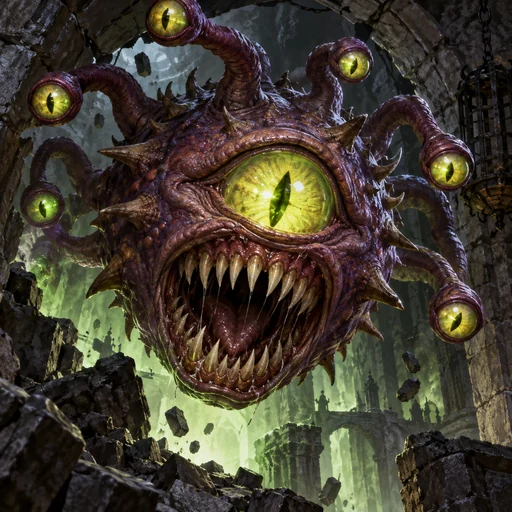
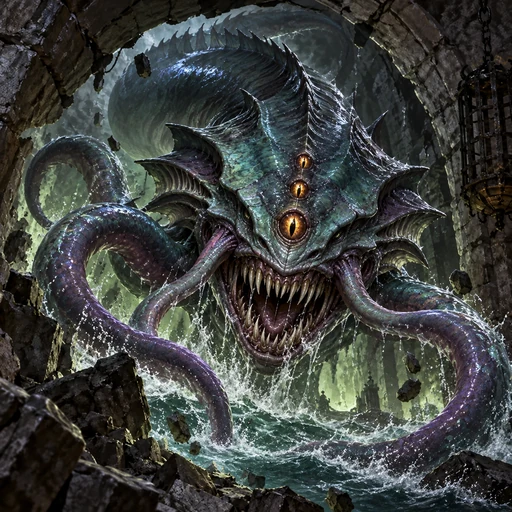
Replace beholder placeholders with aboleths and document art guidance

diff --git a/docs/art/creature-art-guidance.md b/docs/art/creature-art-guidance.md
@@ -1,0 +1,107 @@
+# Choosing creature art for ODM
+
+Use this guide when adding shipped artwork, bestiary entries, world-pack art,
+or generation prompts. It records ODM's conservative publishing practice, not
+a claim that every creature outside the SRD is legally prohibited. Checked
+against Wizards' sources on 2026-10-11.
+
+## Choose and record the source
+
+Prefer a creature with its own stat block in the licensed System Reference
+Document (SRD). ODM's `/rulebook` and `src/lib/rulebook/srd-5.1.json` provide a
+convenient starting point. A passing mention of a name does not establish
+permission to reproduce that creature's full design or lore.
+
+Original creatures, traditional folklore, and separately licensed third-party
+content are also possible. For third-party content, record the exact source,
+license, permitted use, and required attribution. Presence in an installed
+Open5e pack or a user's homebrew collection is not automatic permission to ship
+its art. Rules permission and permission to copy an illustration are separate.
+
+Create original illustrations. Do not copy or trace official pictures, use
+them as image-edit inputs, or request reproduction of a specific published
+design without permission for that artwork. A generic folklore creature does
+not make a publisher's particular illustration free to reuse.
+
+## Subjects to avoid in shipped art without separate clearance
+
+Wizards' SRD 5.1 **OGL edition**, page 1, explicitly lists these creatures or
+names as Product Identity: beholder, gauth, carrion crawler, displacer beast,
+githyanki, githzerai, mind flayer/illithid, umber hulk, yuan-ti, tanar'ri and
+baatezu. This is an OGL designation, not a universal legal classification or
+an extra restriction to paste onto the separate Creative Commons license.
+
+Also avoid WotC-specific depictions of kuo-toa, slaadi, flumphs, neogi, hook
+horrors, grells, intellect devourers and death knights without a documented
+permission basis. These have no individual monster entries in ODM's bundled
+SRD 5.1 rulebook; that absence is a reason to check the source, not proof that
+every independently created fish-person, floating creature or undead knight
+is prohibited. This watch list is not exhaustive.
+
+Apply the same source check to branded characters, settings, locations and
+spell names. Do not assume that an SRD reference to a place licenses its
+setting lore. Use ODM's plain SRD spell names. Wizards' FAQ explains both
+renamed content and exclusions; check the exact SRD version rather than
+treating a combined internet list as definitive.
+
+## Prompt and visual review
+
+Name the intended creature instead of relying on a category alone. For the
+aberration plate, use an aboleth or chuul. Other verified SRD 5.1 subjects
+include owlbear, rust monster, gelatinous cube, mimic, otyugh, bulette, cloaker,
+roper and tarrasque.
+
+Example: "An original aboleth in flooded ruins, an elongated aquatic body and
+four tentacles; no beholder, floating eyeball with eyestalks, or mind flayer;
+do not reproduce a published illustration."
+
+Inspect the finished image at full size and at thumbnail size. Check every
+creature in a composite, including background subjects. Renaming a recognizable
+beholder does not fix its visual design. If generation drifts to an excluded
+subject, replace the anatomy and inspect again before shipping.
+
+Save the subject, source/license reference, prompt, dimensions and file hash
+with the art change. Keep original vote records historical; an edited image
+does not inherit votes cast for its predecessor. The two aboleth replacements
+are recorded in [aboleth-replacements-2026-10-11.json](aboleth-replacements-2026-10-11.json).
+
+## What happens during play
+
+The curated Bestiary is not the DM's only source. `resolveMonster` in
+`src/lib/bestiary/index.ts` also resolves installed content and table authors'
+homebrew. World packs can overlay or extend the genre catalog. In
+`src/lib/dm/encounter-spawn.ts`, an unresolved name with a supplied challenge
+rating (CR) receives generic synthesized stats; without a CR, the request
+returns an unknown-monster error. These are mechanical fallbacks, not source
+or rights checks.
+
+For `MonsterTile` in `src/lib/ui.tsx`, explicitly supplied art wins. Otherwise
+`monsterPlaceholder` in `src/lib/placeholders.ts` chooses, in order:
+
+1. A genre boss plate for CR 11 or above in supported genres.
+2. A genre/type plate, with a stable name/slug seed choosing between variants.
+3. The general creature-type plate, or monstrosity for an unrecognized type.
+
+This path does not generate a portrait or find the visually nearest species.
+Several distinct aberrations can therefore share the aboleth category picture.
+Separate scene illustration through `generate_image` can run when campaign
+image generation and a working image producer are available
+(`src/lib/dm/images.ts`). It attaches art to narration; missing monster
+thumbnails do not trigger it. Other portrait/world-art tools are separate too.
+
+This guide is a contributor instruction. It does not add a runtime creature
+blocklist or inspect every image generated during play.
+
+## Primary sources
+
+- [Wizards' SRD page and FAQ](https://www.dndbeyond.com/srd): current releases,
+  version-specific exclusions, renamed content and Creative Commons terms.
+- [SRD 5.1, Creative Commons edition](https://media.dndbeyond.com/compendium-images/srd/5.1/SRD_CC_v5.1.pdf):
+  license on page 1; aboleth stat block on page 261.
+- [SRD 5.1, OGL edition](https://media.dndbeyond.com/compendium-images/srd/5.1/SRD-OGL_V5.1.pdf):
+  historical Product Identity list on page 1.
+- [SRD 5.2.1](https://media.dndbeyond.com/compendium-images/srd/5.2/SRD_CC_v5.2.1.pdf):
+  a separately licensed version; do not assume its contents match 5.1.
+
+Keep applicable attribution in [../LICENSES.md](../LICENSES.md) accurate when
+adding content from another source or SRD version.

diff --git a/AGENTS.md b/AGENTS.md
@@ -7,3 +7,12 @@ This version has breaking changes — APIs, conventions, and file structure may 
 This block is written and re-added by `next dev` — verify at `node_modules/next/dist/server/lib/generate-agent-files.js`. Removing it from a diff only re-creates the uncommitted change; committing it with your work keeps the tree clean.
 
 <!-- END:nextjs-agent-rules -->
+
+## Creature artwork and content sources
+
+Before creating or replacing creature art, adding bestiary content, or changing
+image prompts, read [docs/art/creature-art-guidance.md](docs/art/creature-art-guidance.md).
+Use a named SRD creature, an original design, or a separately licensed subject
+with recorded permission. Do not let a generic prompt such as "aberration"
+introduce a beholder or mind flayer. Inspect the rendered anatomy as well as the
+prompt, and preserve the source and edit history with each art change.
